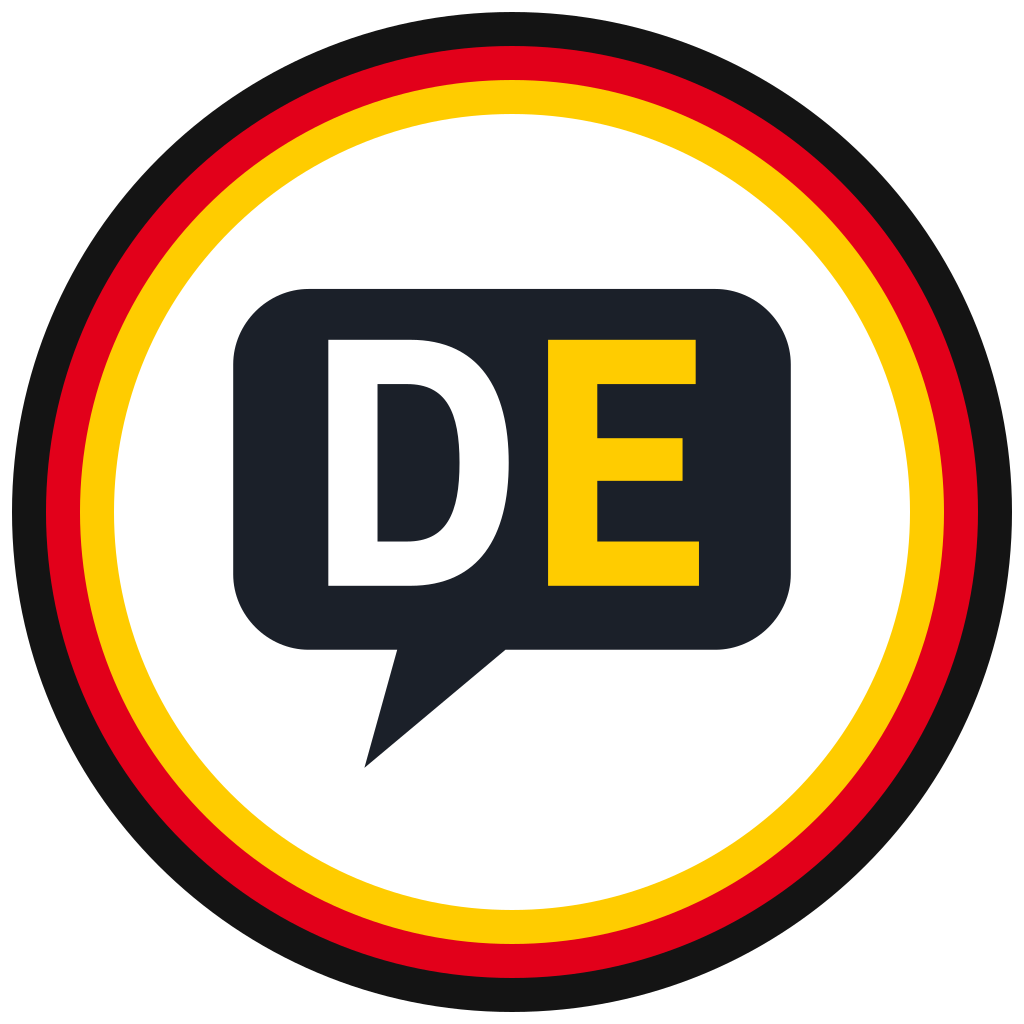
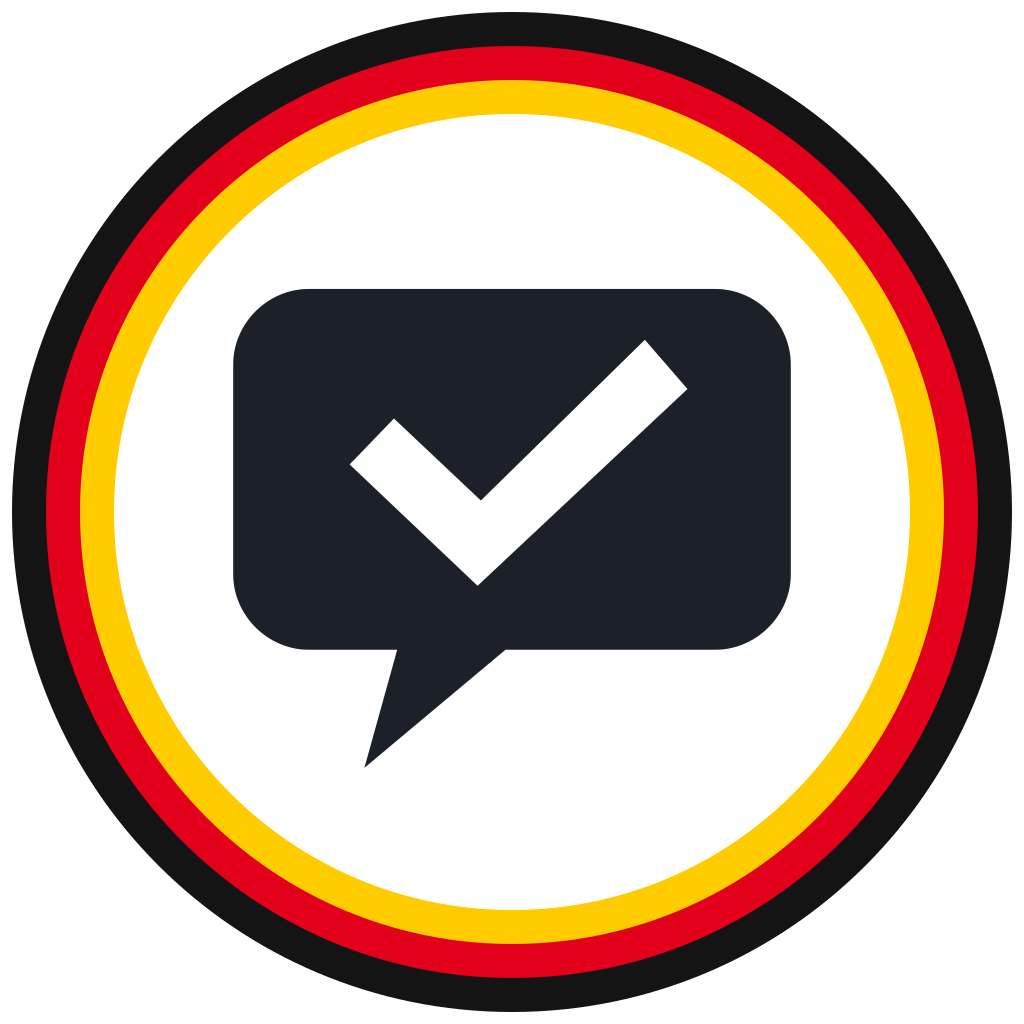
Rename the app to "Ich kann"
The app teaches A1 to C1, and it had been calling itself B1-Trainer and
then Deutsch-Trainer, the second of which was a placeholder rather than
a decision.

"Ich kann" is the app's own sentence. Every goal in it is a can-do
statement in the first person - "Ich kann meine Wohnung beschreiben",
"Ich kann beim Arzt sagen, was mir fehlt" - so the name and the thing
that makes this app different are the same two words. A percentage
tells a learner nothing they can act on; a can-do tells them what to go
and try, and now the icon on their home screen says so too.

The mark is a ticked speech bubble. Each half carries one word: the
bubble is the language, the tick is the goal you have ticked off. It
replaced one reading "DE", which was legible at 512px and a smudge at
16px - a tick survives being shrunk to a favicon, which letters inside
a bubble do not. It is drawn as a single outline rather than two
coloured strokes, because two strokes leave a seam at the vertex and
the vertex is exactly where the eye lands.

Three identifiers deliberately keep their old values, and each now says
why where someone would try to change it:

- the `b1.v1.` storage prefix is the address of every existing
  learner's progress. Renaming it would not migrate their data, it
  would orphan it, and they would open the app to an empty deck.
- `b1.analytics-consent` holds each visitor's answer about statistics.
  Renaming it would silently ask everybody again.
[…]

Changed region(s): [[0.3125, 0.3125, 0.6875, 0.5938]]

diff --git a/src/data/brandMark.ts b/src/data/brandMark.ts
@@ -1,2 +1,2 @@
 // GENERATED by scripts/build-icons.mjs - do not edit.
-export const BRAND_MARK_SVG = "<svg xmlns=\"http://www.w3.org/2000/svg\" width=\"512\" height=\"512\" viewBox=\"0 0 512 512\">\n  <rect width=\"512\" height=\"512\" fill=\"#FFFFFF\"/>\n  <circle cx=\"256\" cy=\"256\" r=\"250\" fill=\"#141414\"/>\n  <circle cx=\"256\" cy=\"256\" r=\"233\" fill=\"#E2001A\"/>\n  <circle cx=\"256\" cy=\"256\" r=\"216\" fill=\"#FFCC00\"/>\n  <circle cx=\"256\" cy=\"256\" r=\"199\" fill=\"#FFFFFF\"/>\n  \n  <g transform=\"translate(256 256) scale(0.82) translate(-256 -256)\">\n    <path d=\"M132 120 H380 C405 120 426 141 426 166 V294 C426 319 405 340 380 340\n             H252 L166 412 L186 340 H132 C107 340 86 319 86 294 V166\n             C86 141 107 120 132 120 Z\" fill=\"#1B2029\"/>\n    <g transform=\"translate(144 151)\">\n  <path d=\"M0 0 L50 0 C92 0 110 30 110 75 C110 120 92 150 50 150 L0 150 Z M30 27 L48 27 C72 27 80 44 80 75 C80 106 72 123 48 123 L30 123 Z\" fill=\"#FFFFFF\" fill-rule=\"evenodd\"/>\n  <g transform=\"translate(134 0)\"><path d=\"M0 0 L90 0 L90 27 L30 27 L30 60 L82 60 L82 86 L30 86 L30 123 L92 123 L92 150 L0 150 Z\" fill=\"#FFCC00\"/></g></g>\n  </g>\n</svg>";
+export const BRAND_MARK_SVG = "<svg xmlns=\"http://www.w3.org/2000/svg\" width=\"512\" height=\"512\" viewBox=\"0 0 512 512\">\n  <rect width=\"512\" height=\"512\" fill=\"#FFFFFF\"/>\n  <circle cx=\"256\" cy=\"256\" r=\"250\" fill=\"#141414\"/>\n  <circle cx=\"256\" cy=\"256\" r=\"233\" fill=\"#E2001A\"/>\n  <circle cx=\"256\" cy=\"256\" r=\"216\" fill=\"#FFCC00\"/>\n  <circle cx=\"256\" cy=\"256\" r=\"199\" fill=\"#FFFFFF\"/>\n  \n  <g transform=\"translate(256 256) scale(0.82) translate(-256 -256)\">\n    <path d=\"M132 120 H380 C405 120 426 141 426 166 V294 C426 319 405 340 380 340\n             H252 L166 412 L186 340 H132 C107 340 86 319 86 294 V166\n             C86 141 107 120 132 120 Z\" fill=\"#1B2029\"/>\n    <g transform=\"translate(157 151)\"><path d=\"M180 0 L206 30 L78 150 L0 76 L27 48 L80 98 Z\" fill=\"#FFFFFF\"/></g>\n  </g>\n</svg>";

diff --git a/src/lib/i18n.ts b/src/lib/i18n.ts
@@ -7,9 +7,9 @@ import type { Language } from './types';
  */
 const strings = {
   en: {
-    appName: 'Deutsch-Trainer',
-    appSubtitle: 'A1 bis C1',
-    tagline: 'From your first sentence to fluent German',
+    appName: 'Ich kann',
+    appSubtitle: 'Deutsch A1 bis C1',
+    tagline: 'Every goal in this app starts with these two words',
 
     // tabs
     tabHome: 'Home',
@@ -313,7 +313,7 @@ const strings = {
     androidStep2: 'Tap “Install app”, or “Add to Home screen” on older versions.',
     androidStep3: 'Tap “Install”. The bear appears on your home screen.',
     desktopStep1: 'Look for the install icon at the end of the address bar.',
-    desktopStep2: 'Or open the browser menu and choose “Install Deutsch-Trainer”.',
+    desktopStep2: 'Or open the browser menu and choose “Install Ich kann”.',
 
     // onboarding
     skip: 'Skip',
@@ -337,9 +337,9 @@ const strings = {
   },
 
   de: {
-    appName: 'Deutsch-Trainer',
-    appSubtitle: 'A1 bis C1',
-    tagline: 'Vom ersten Satz bis zum fließenden Deutsch',
+    appName: 'Ich kann',
+    appSubtitle: 'Deutsch A1 bis C1',
+    tagline: 'Jedes Ziel in dieser App fängt mit diesen zwei Wörtern an',
 
     tabHome: 'Start',
     tabWords: 'Wörter',
@@ -630,7 +630,7 @@ const strings = {
     androidStep2: 'Tippe auf „App installieren“, in älteren Versionen „Zum Startbildschirm hinzufügen“.',
     androidStep3: 'Tippe auf „Installieren“. Der Bär erscheint auf deinem Startbildschirm.',
     desktopStep1: 'Suche das Installationssymbol am Ende der Adressleiste.',
-    desktopStep2: 'Oder öffne das Browsermenü und wähle „Deutsch-Trainer installieren“.',
+    desktopStep2: 'Oder öffne das Browsermenü und wähle „Ich kann installieren“.',
 
     skip: 'Überspringen',
     next: 'Weiter',

diff --git a/app/+html.tsx b/app/+html.tsx
@@ -23,7 +23,7 @@ export default function Root({ children }: { children: React.ReactNode }) {
 
         <meta
           name="description"
-          content="Deutsch-Trainer: vocabulary, grammar, graded reading and full exam practice for German A1 to C1."
+          content="Ich kann: vocabulary, grammar, graded reading and full exam practice for German A1 to C1. Free, offline, no account."
         />
         <meta name="theme-color" content="#4CC93F" />
 
@@ -32,7 +32,7 @@ export default function Root({ children }: { children: React.ReactNode }) {
         <link rel="apple-touch-icon" href="icon-192.png" />
         <meta name="apple-mobile-web-app-capable" content="yes" />
         <meta name="apple-mobile-web-app-status-bar-style" content="default" />
-        <meta name="apple-mobile-web-app-title" content="Deutsch-Trainer" />
+        <meta name="apple-mobile-web-app-title" content="Ich kann" />
         <meta name="mobile-web-app-capable" content="yes" />
 
         {/* Keeps <ScrollView> from scrolling the page body. */}
@@ -45,8 +45,8 @@ export default function Root({ children }: { children: React.ReactNode }) {
         {/* Painted immediately, removed by the app once it has mounted. */}
         <div id="b1-splash" aria-hidden="true">
           <div id="b1-splash-mark" dangerouslySetInnerHTML={{ __html: BRAND_MARK_SVG }} />
-          <div id="b1-splash-name">Deutsch-Trainer</div>
-          <div id="b1-splash-sub">A1 bis C1</div>
+          <div id="b1-splash-name">Ich kann</div>
+          <div id="b1-splash-sub">Deutsch A1 bis C1</div>
         </div>
         {children}
       </body>

diff --git a/src/lib/analytics.ts b/src/lib/analytics.ts
@@ -19,6 +19,10 @@ import { Platform } from 'react-native';
  * same app_id as the portfolio's Labs catalogue, so reports can split by app.
  */
 const GA_ID = (process.env.EXPO_PUBLIC_GA_MEASUREMENT_ID ?? 'G-H0QB1FC8VN').trim();
+// Both keep their original values through the rename, on purpose. The app id
+// is what joins this app's hits to the ones already recorded, so changing it
+// would split the history in two; the consent key is where each visitor's
+// answer lives, so changing it would silently ask everybody again.
 const APP = 'german-b1';
 const CONSENT_KEY = 'b1.analytics-consent';
 

diff --git a/src/lib/storage.ts b/src/lib/storage.ts
@@ -1,6 +1,12 @@
 import AsyncStorage from '@react-native-async-storage/async-storage';
 
 /** Bumped whenever the persisted shape changes incompatibly. */
+/*
+ * Deliberately still 'b1.' after the app was renamed to "Ich kann". This
+ * prefix is the address of every existing learner's progress; changing it
+ * would not migrate their data, it would orphan it, and they would open the
+ * app to an empty deck with no way back.
+ */
 const PREFIX = 'b1.v1.';
 
 export async function loadJSON<T>(key: string, fallback: T): Promise<T> {

diff --git a/app/_layout.tsx b/app/_layout.tsx
@@ -98,7 +98,7 @@ function Navigator() {
       {/* expo-router renders a helmet-managed <title> into the head; without a
           value here it emits an empty one and the tab shows nothing. */}
       <Head>
-        <title>Deutsch-Trainer</title>
+        <title>Ich kann — Deutsch A1 bis C1</title>
         <meta
           name="description"
           content="Practise German from A1 to C1: vocabulary, grammar, graded articles, Lesen, Hören, Schreiben and Sprechen."

diff --git a/README.md b/README.md
@@ -1,6 +1,11 @@
-# Deutsch-Trainer — German A1 to C1
+# Ich kann — German A1 to C1
 
-A study app for German, from your first sentence to fluent. One codebase, three
+A study app for German, from your first sentence to fluent.
+
+The name is the app's own sentence. Every goal in it is a can-do statement in
+the first person — *Ich kann meine Wohnung beschreiben*, *Ich kann beim Arzt
+sagen, was mir fehlt* — because a percentage tells a learner nothing they can
+act on and a can-do tells them exactly what to go and try. One codebase, three
 targets: **iOS**, **Android** and a **static web app** that deploys to GitHub
 Pages.
 
